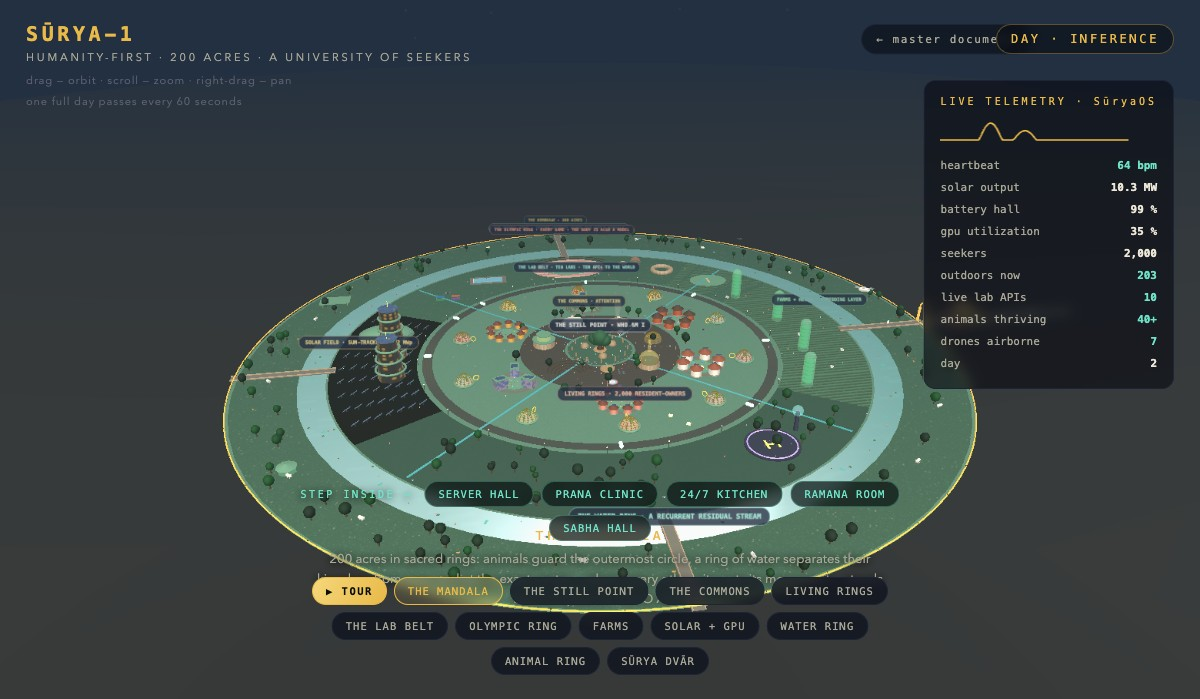
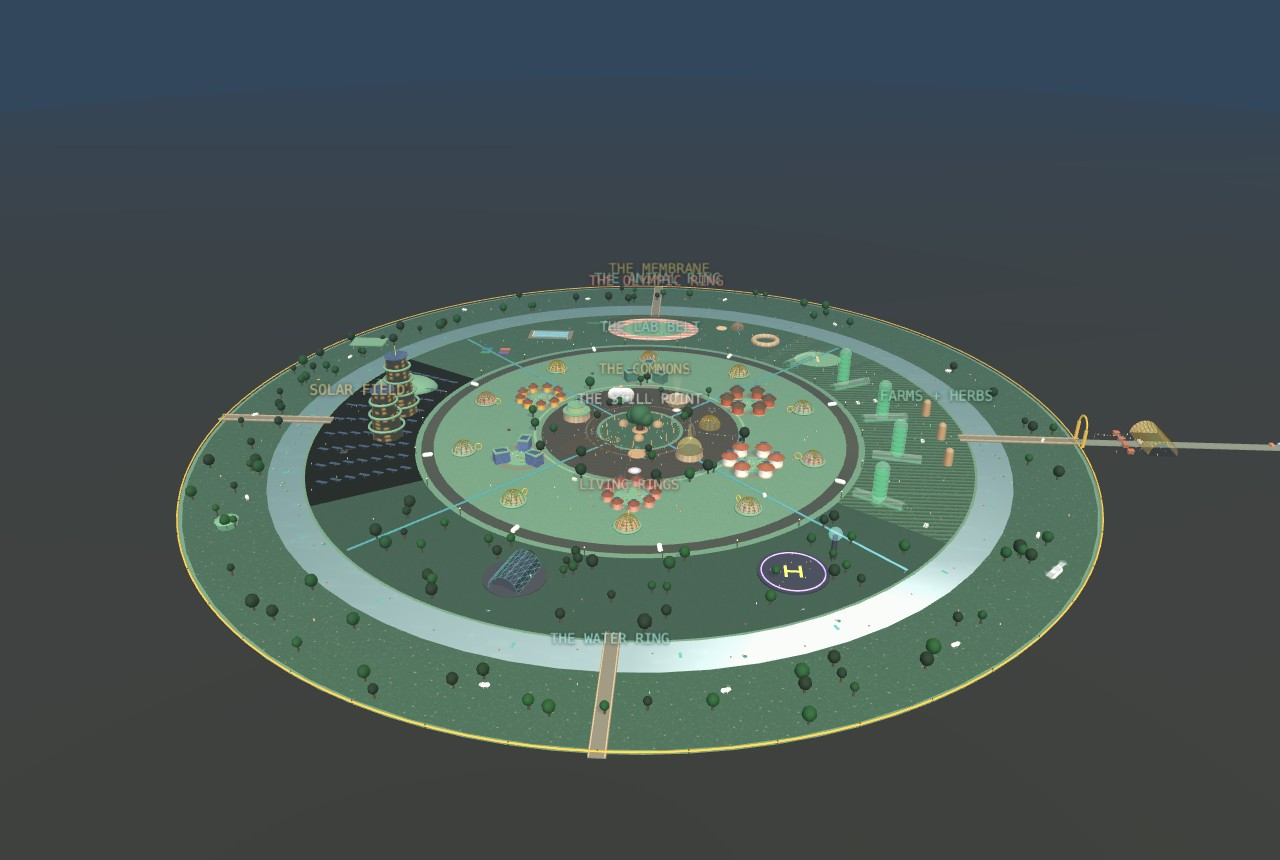
v9 — hero is now a clean floating scale-model (no button overlay), light constant-size plaque labels back (short names, auto-declutter, never balloon), fixed footer seal text overflow

diff --git a/township-3d.html b/township-3d.html
@@ -100,8 +100,11 @@ import * as THREE from 'three';
 import { OrbitControls } from 'three/addons/controls/OrbitControls.js';
 import { RoomEnvironment } from 'three/addons/environments/RoomEnvironment.js';
 
-if (new URLSearchParams(location.search).get('hud')==='min'){
-  for(const id of ['title','back','hint']) document.getElementById(id).style.display='none';
+const HERO = new URLSearchParams(location.search).get('hud')==='min';
+if (HERO){
+  // hero showcase: hide ALL chrome — just the living model + its light zone plaques
+  for(const id of ['title','back','hint','views','inside','telem','mode','info'])
+    document.getElementById(id).style.display='none';
 }
 
 /* ── renderer / scene ── */
@@ -122,8 +125,9 @@ const controls=new OrbitControls(camera,renderer.domElement);
 controls.enableDamping=true;controls.dampingFactor=.07;
 controls.rotateSpeed=.9;controls.zoomSpeed=1.1;
 controls.maxPolarAngle=Math.PI*0.495;controls.minDistance=20;controls.maxDistance=2200;
-controls.autoRotate=true;controls.autoRotateSpeed=.28;
-renderer.domElement.style.touchAction='none';
+controls.autoRotate=true;controls.autoRotateSpeed=HERO?.5:.28;
+if(HERO){controls.enabled=false;}                 // hero: auto-rotate only, never trap page scroll
+else{renderer.domElement.style.touchAction='none';}
 controls.addEventListener('start',()=>{controls.autoRotate=false;stopTour();});
 
 const sunLight=new THREE.DirectionalLight(0xffe9b0,2.6);
@@ -199,11 +203,32 @@ const P=(th,r)=>[Math.cos(th)*r,Math.sin(th)*r];
 const D2R=Math.PI/180;
 function sector(r1,r2,a1,a2,mat,y=0){const g=new THREE.RingGeometry(r1,r2,64,1,a1,a2-a1).rotateX(-Math.PI/2);g.scale(1,1,-1);
  const m=new THREE.Mesh(g,mat);m.receiveShadow=true;m.position.y=y;return m;}
-/* NO TEXT ON THE MODEL — by design. The 3D is pure visual; all naming lives in the
-   HUD info panel + view buttons. label() is a silent no-op so the ~120 call sites
-   keep working (scene.add / .position.set) but render nothing. */
+/* Plaque labels — like the little engraved name-cards on a real architect's model.
+   Light, thin, soft-shadowed; held at a near-constant on-screen size (so they never
+   balloon when you zoom); and shown only at the right distance band so the model is
+   never cluttered. tier1 = zone titles (seen across the model), tier2 = building names
+   (appear as you come close). */
 const allLabels=[];
-function label(){return new THREE.Object3D();}
+function label(text,color='#e9b949',size=26){
+  const tier=size>=22?1:2;
+  // model plaques carry only the short NAME — the poetry lives in the info panel
+  const name=text.split('·')[0].trim();
+  const fs=34, pad=10;
+  const cnv=document.createElement('canvas'),mc=cnv.getContext('2d');
+  mc.font=`500 ${fs}px ui-monospace, Menlo, monospace`;
+  const tw=mc.measureText(name).width;
+  cnv.width=Math.ceil(tw)+pad*2; cnv.height=fs+pad*2;
+  const c=cnv.getContext('2d');
+  c.font=`500 ${fs}px ui-monospace, Menlo, monospace`;
+  c.textBaseline='middle';
+  c.shadowColor='rgba(0,0,0,.95)'; c.shadowBlur=9; c.shadowOffsetY=1;
+  c.fillStyle=color; c.fillText(name,pad,cnv.height/2);
+  c.shadowBlur=0; c.fillText(name,pad,cnv.height/2);
+  const tx=new THREE.CanvasTexture(cnv); tx.anisotropy=4;
+  const sp=new THREE.Sprite(new THREE.SpriteMaterial({map:tx,transparent:true,depthWrite:false,depthTest:false,opacity:0}));
+  sp.renderOrder=10;
+  allLabels.push({sp,tier,ar:cnv.width/cnv.height,px:tier===1?22:15});
+  return sp;}
 
 /* ════════════ THE MANDALA — ground rings ════════════ */
 const outer=M(new THREE.CircleGeometry(3000,64).rotateX(-Math.PI/2),lam(0x0a0f0c));outer.position.y=-.5;scene.add(outer);
@@ -1198,6 +1223,19 @@ function animate(){
   tGpu.textContent=Math.round(day>.08?34+8*Math.random():92+6*Math.random())+' %';
   tOut.textContent=Math.round(PEOPLE*(0.55+0.45*day));
   tDay.textContent=1+Math.floor(t/DAY);}
+
+ /* plaque labels: TRUE constant on-screen px size + distance-band fade (auto-declutter) */
+ {const vpx=renderer.domElement.clientHeight||innerHeight;
+  const f=2*Math.tan(THREE.MathUtils.degToRad(camera.fov)/2)/vpx;
+  for(const L of allLabels){
+   const d=camera.position.distanceTo(L.sp.position);
+   const h=L.px*f*d;                       // world height that renders at L.px screen pixels
+   L.sp.scale.set(h*L.ar,h,1);
+   let o;
+   if(L.tier===1) o=THREE.MathUtils.smoothstep(d,55,130)*0.72;                                  // zone titles: hide when you're inside a zone
+   else o=THREE.MathUtils.smoothstep(d,16,38)*(1-THREE.MathUtils.smoothstep(d,95,160))*0.9;      // buildings: only when close
+   L.sp.material.opacity+=(o-L.sp.material.opacity)*.16;
+   L.sp.visible=L.sp.material.opacity>0.02;}}
 
  /* cinematic tour pacing */
  if(tour.on){tour.timer+=dt;if(tour.timer>8.5)advanceTour();}

diff --git a/index.html b/index.html
@@ -772,13 +772,15 @@
 
     <div class="seal">
       <svg viewBox="0 0 120 120">
-        <defs><path id="sealr" d="M60,14 a46,46 0 1,1 -0.01,0" fill="none"/></defs>
+        <defs><path id="sealr" d="M60,17 a43,43 0 1,1 -0.01,0" fill="none"/></defs>
         <circle cx="60" cy="60" r="56" fill="none" stroke="#9c7a1f" stroke-width="1.4"/>
-        <g class="spin-slow" style="animation-duration:60s">
-          <text font-size="9.5" letter-spacing="2.8" fill="#e9b949"><textPath href="#sealr">SŪRYA-1 · THE WORLD'S FIRST LIVING MODEL · MMXXVI ·&#160;</textPath></text>
+        <circle cx="60" cy="60" r="50" fill="none" stroke="#9c7a1f" stroke-width=".5" opacity=".5"/>
+        <g class="spin-slow" style="animation-duration:80s">
+          <text font-size="7.4" letter-spacing="2.1" fill="#e9b949"><textPath href="#sealr" startOffset="0">SŪRYA-1 · THE LIVING MODEL · MMXXVI ·&#160;</textPath></text>
         </g>
         <circle cx="60" cy="60" r="17" fill="#e9b949" opacity=".9"/>
         <circle cx="60" cy="60" r="17" fill="none" stroke="#ffe9a3"/>
+        <text x="60" y="62.5" text-anchor="middle" font-size="8" fill="#0b0d08" font-family="ui-monospace,monospace" font-weight="700">S‑1</text>
       </svg>
     </div>
   </section>

diff --git a/surya-1-master.html b/surya-1-master.html
@@ -772,13 +772,15 @@
 
     <div class="seal">
       <svg viewBox="0 0 120 120">
-        <defs><path id="sealr" d="M60,14 a46,46 0 1,1 -0.01,0" fill="none"/></defs>
+        <defs><path id="sealr" d="M60,17 a43,43 0 1,1 -0.01,0" fill="none"/></defs>
         <circle cx="60" cy="60" r="56" fill="none" stroke="#9c7a1f" stroke-width="1.4"/>
-        <g class="spin-slow" style="animation-duration:60s">
-          <text font-size="9.5" letter-spacing="2.8" fill="#e9b949"><textPath href="#sealr">SŪRYA-1 · THE WORLD'S FIRST LIVING MODEL · MMXXVI ·&#160;</textPath></text>
+        <circle cx="60" cy="60" r="50" fill="none" stroke="#9c7a1f" stroke-width=".5" opacity=".5"/>
+        <g class="spin-slow" style="animation-duration:80s">
+          <text font-size="7.4" letter-spacing="2.1" fill="#e9b949"><textPath href="#sealr" startOffset="0">SŪRYA-1 · THE LIVING MODEL · MMXXVI ·&#160;</textPath></text>
         </g>
         <circle cx="60" cy="60" r="17" fill="#e9b949" opacity=".9"/>
         <circle cx="60" cy="60" r="17" fill="none" stroke="#ffe9a3"/>
+        <text x="60" y="62.5" text-anchor="middle" font-size="8" fill="#0b0d08" font-family="ui-monospace,monospace" font-weight="700">S‑1</text>
       </svg>
     </div>
   </section>